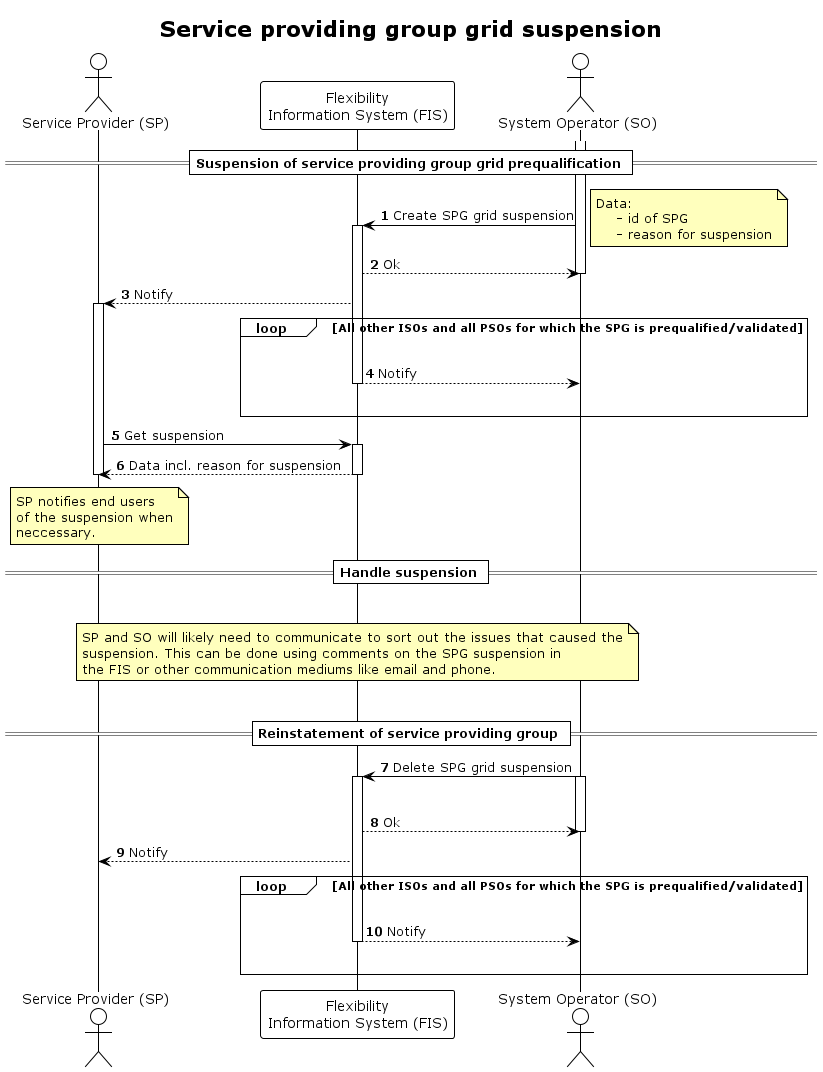
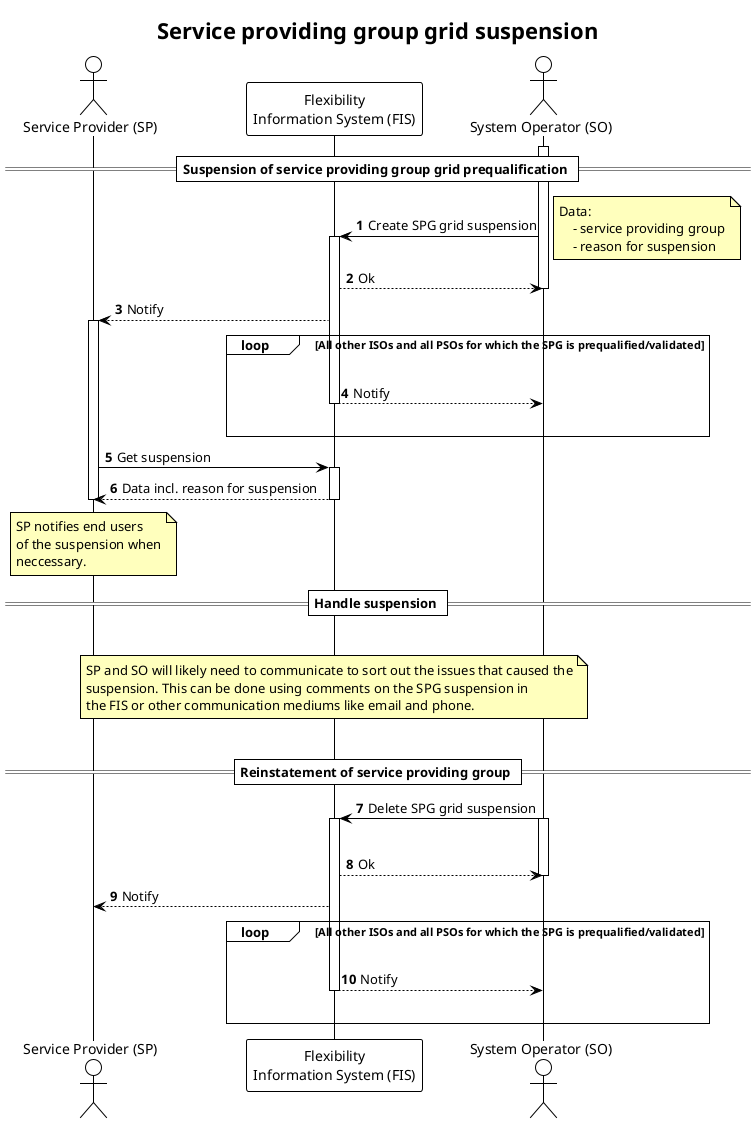
docs: refinement of SP(G) suspension (FLEX-706)

diff --git a/docs/processes/service-providing-group-grid-suspension.md b/docs/processes/service-providing-group-grid-suspension.md
@@ -1,11 +1,11 @@
 # SPG grid suspension
 
 This process is used to [suspend](../concepts/suspension.md) the service
-providing group (SPG) temporarily.
-The suspension is done by an impacted system operator and is registered in the
-flexibility information system (FIS) by creating a SPG suspension.
-By registering it in the FIS, both the service provider, relevant
-procuring and impacted system operators will be made aware of the suspension.
+providing group (SPG) temporarily. The suspension is done by an impacted system
+operator and is registered in the flexibility information system (FIS) by
+creating a SPG grid suspension. By registering it in the FIS, both the service
+provider, relevant procuring and impacted system operators will be made aware of
+the suspension.
 
 The suspension is valid for the following combination:
 
@@ -17,17 +17,22 @@ All procuring system operators will be affected by the suspension as the SPG
 will no longer be approved to deliver services. Procuring system operators and
 impacted system operators will receive notification of the suspension.
 
+Suspension is a powerful tool, and might not be the right way to limit the use
+of a SPG. A SPG grid suspension will effectively prevent the SPG from delivering
+*any* services to *any* PSO. The ISO must consider using
+softer tools such as temporary limits.
+
 The impacted system operator must include the reason for suspension when
 suspending. The reason for suspension is a predefined list. There are two
 reasons for that. The first is that the ISO is only allowed to suspend for
 valid reasons. The other is that it allows for a greater degree of automation
 in the process.
 
-| Reason                   | Description                                                                                                                                                                                                                                                           |
-|--------------------------|-----------------------------------------------------------------------------------------------------------------------------------------------------------------------------------------------------------------------------------------------------------------------|
-| `breach_of_conditions`   | The SPG grid prequalification status is _conditionally_approved_ and SPG repeatedly breaches the conditions.                                                                                                                                                                                    |
-| `significant_alteration` | In cases where the SPG is altered significantly and ISO needs time to consider if they need to do a new grid prequalification or use other tools. Suspension is _not the primary tool_ that should be used in this case. Temporary limits should be used when possible. |
-| `other`                  | Should generally _not_ be used, but can in cases where ISO has a valid reason for suspension that is outside the other defined reasons.                                                                                                                               |
+| Reason                     | Description                                                                                                                                       |
+|----------------------------|---------------------------------------------------------------------------------------------------------------------------------------------------|
+| `breach_of_conditions`     | The SPG grid prequalification status is *conditionally_approved* and SPG repeatedly breaches the conditions.                                      |
+| `significant_group_change` | In cases where the SPG is altered significantly and ISO needs time to consider if they need to do a new grid prequalification or use other tools. |
+| `other`                    | Should generally *not* be used, but can in cases where ISO has a valid reason for suspension that is outside the other defined reasons.           |
 
 Depending on the reason for suspension, the system operator should warn the
 service provider in advance of the suspension. The reasons for suspension that
@@ -45,12 +50,13 @@ i.e. removing the suspension.
 * End users should not be notified about or view the suspension in FIS. Service
   providers will notify end users when necessary and dependent on the agreement
   between them and the end user.
-* The suspension of the SPG will impact the [ready for market](https://elhub.github.io/flex-information-system/concepts/ready-for-market/)
+* The suspension of the SPG will impact the
+  [ready for market](https://elhub.github.io/flex-information-system/concepts/ready-for-market/)
   status for a SPG.
 
 ## Sequence
 
-[Full Size](../diagrams/service_providing_group_grid_suspension.png)
-| [PlantUML description](../diagrams/service_providing_group_grid_suspension.plantuml)
+[Full Size](../diagrams/service_providing_group_grid_suspension.png) |
+[PlantUML description](../diagrams/service_providing_group_grid_suspension.plantuml)
 
 ![Service Provider Registration](../diagrams/service_providing_group_grid_suspension.png)
